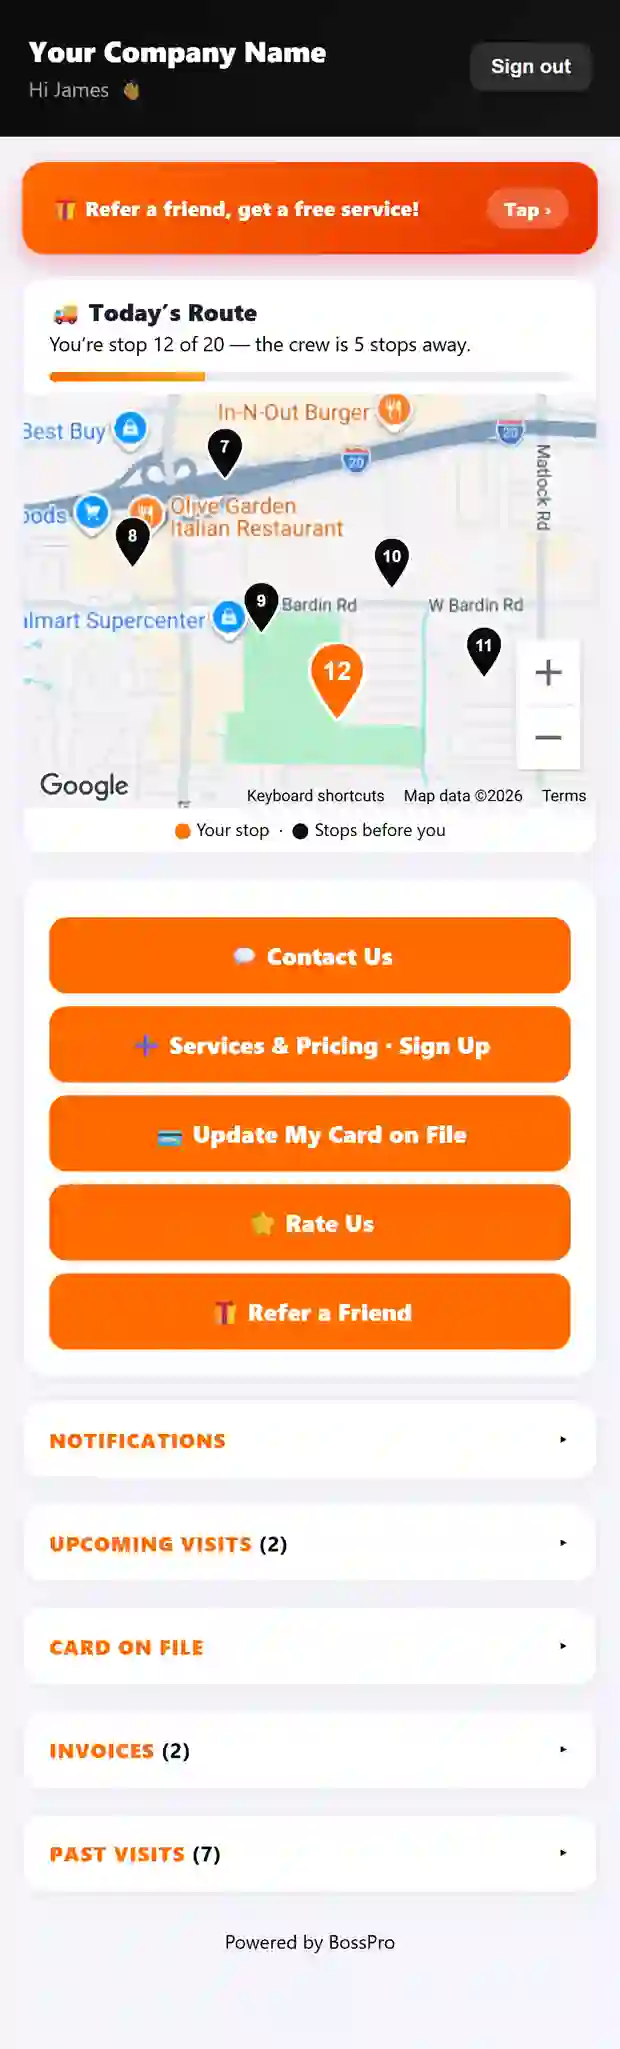
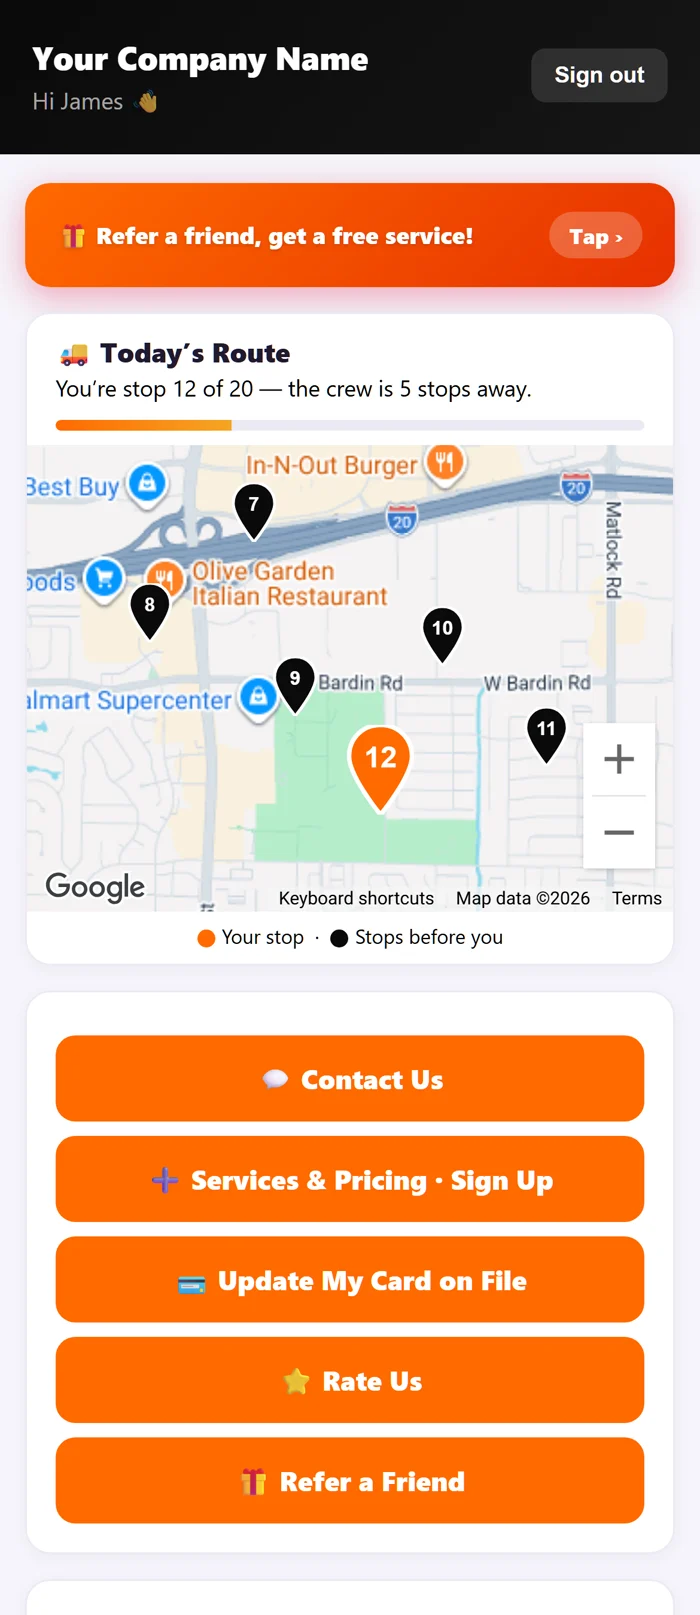
Home page: fix the stretched phones, show the stop list under the board, show every alert
The two phone shots were captured full-page, so the client app came out 620x2049 - a long
skinny strip nothing like a handset, and a different shape from the crew app beside it at
the same CSS width. Both are now shot at a 390x900 viewport, so they are the same 700x1615
and sit side by side without one looking stretched.

The dispatch board shot was map plus a single row, and at zoom 13 only three pins were even
inside the map. It now fits the map to the markers themselves so the whole numbered route
shows, and the taller frame carries thirteen stops of the list underneath it.

The alert panel was a four-row crop, which is not the alert list. The whole catalogue is
there now - nineteen alerts across seven sections, every text / email / in-app switch
visible. Shot at 1200 wide so the app pulls the switches in beside the titles, and displayed
at 620 so it renders at true size instead of shrinking into mush.

diff --git a/app/page.tsx b/app/page.tsx
@@ -372,8 +372,8 @@ export default function Home() {
           <h2 className="section-title">Your customers get their own app, and you choose what it shows them</h2>
           {/* The client app and the crew app, side by side - the two screens this section is about. */}
           <div style={{display:'flex', gap:'26px', justifyContent:'center', flexWrap:'wrap', margin:'34px 0 8px'}}>
-            <img src="/shot-clientapp.webp" alt="The customer's own app showing today's route and how many stops away the crew is" style={{width:'250px', maxWidth:'44vw', borderRadius:'14px', border:'1px solid rgba(255,255,255,.14)'}} />
-            <img src="/shot-crewapp.webp" alt="The crew app showing the route map and the day's stops in order" style={{width:'250px', maxWidth:'44vw', borderRadius:'14px', border:'1px solid rgba(255,255,255,.14)'}} />
+            <img src="/shot-clientapp.webp" alt="The customer's own app showing today's route and how many stops away the crew is" style={{width:'270px', maxWidth:'42vw', display:'block', borderRadius:'14px', border:'1px solid rgba(255,255,255,.14)'}} />
+            <img src="/shot-crewapp.webp" alt="The crew app showing the route map and the day's stops in order" style={{width:'270px', maxWidth:'42vw', display:'block', borderRadius:'14px', border:'1px solid rgba(255,255,255,.14)'}} />
           </div>
           <p className="section-sub">Most software this powerful stops at you and your crew. SprayBossPro gives your customers their own branded app they install right on their phone — no app store, no password, just a secure text-link login. It&apos;s the kind of thing platforms charging 5× more don&apos;t even offer.</p>
         </div>
@@ -503,8 +503,8 @@ export default function Home() {
           {/* Every alert, with its own text / email / in-app switches. The section spent five
               bullet points describing this table; showing it is shorter and more convincing. */}
           <img src="/shot-alerts.webp" alt="The alert list with independent text, email and in-app switches on every alert"
-               style={{width:'100%', maxWidth:'1000px', display:'block', margin:'30px auto 6px', borderRadius:'10px', border:'1px solid rgba(255,255,255,.12)'}} />
-          <p className="section-sub">Set up automated SMS and email alerts once. SprayBossPro sends them automatically — keeping your customers informed without any extra work from you.</p>
+               style={{width:'100%', maxWidth:'620px', display:'block', margin:'30px auto 6px', borderRadius:'10px', border:'1px solid rgba(255,255,255,.12)'}} />
+          <p className="section-sub">That is the whole list, not a sample. Nineteen alerts, each with its own text, email and in-app switch. Turn one on and it sends itself from then on. Turn a channel off and your customers never see it as an option.</p>
         </div>
         <div className="alert-grid">
           <div className="alert-pill"><span className="ap-icon">📅</span><div><div className="ap-label">Service Scheduled</div><div className="ap-sub">Auto-text when a job is booked</div></div></div>
